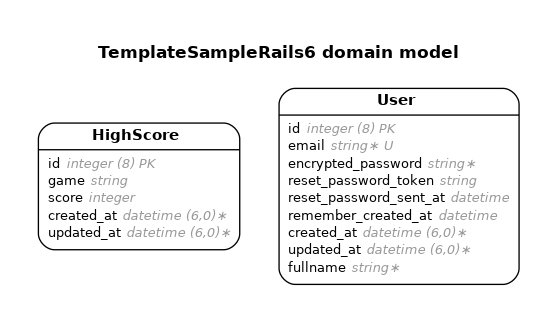
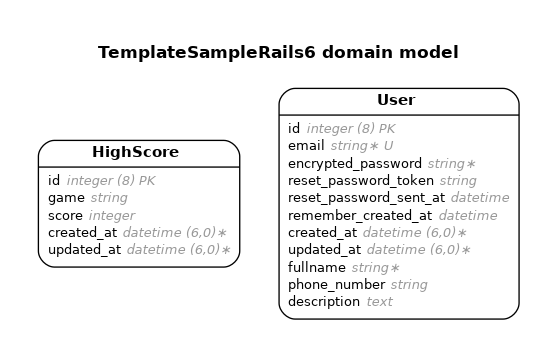
profile page create

Changed region(s): [[0.4883, 0.2167, 0.9461, 0.8978], [0.061, 0.3715, 0.4578, 0.774], [0.1526, 0.1238, 0.8241, 0.1858]]

diff --git a/app/assets/stylesheets/application.scss b/app/assets/stylesheets/application.scss
@@ -1,2 +1,138 @@
 @import "bootstrap-sprockets";
 @import "bootstrap";
+
+body {
+  color: #565a5c;
+  background-color: #F8F8F8;
+  font-family: "Varela Round", "Helvetica Neue", "Helvetica", "Arial", sans-serif;
+}
+
+a {
+  color: #00A699;
+}
+
+.container {
+  width: 80%;
+}
+
+.text-babu, .icon-babu {
+  color: #00A699;
+}
+
+.text-red, .icon-red {
+  color: #FF5A5F;
+}
+
+// NAVBARS
+.navbar-default {
+  background-color: #FFFFFF;
+}
+
+.navbar-default .navbar-brand {
+  color: #FF5A5F;
+  font-size: 2em;
+  font-weight: 400;
+}
+
+// BUTTONS
+.btn-block {
+  display: block;
+  white-space: normal;
+  width: 100%;
+}
+
+.btn {
+  color: #fff;
+  border-radius: 5px;
+  font-weight: bold;
+  padding: 9px 27px;
+}
+
+.btn-small {
+  padding: 5px 15px;
+  margin-top: 15px;
+}
+
+.btn:hover, .btn:focus {
+  color: #fff;
+}
+
+.btn.btn-default {
+  width: 100%;
+  border-color: #c4c4c4;
+  background: white;
+  color: #484848;
+  border-radius: 2px;
+  padding: 10px 0;
+  margin-top: 10px;
+}
+
+.btn.btn-normal {
+  border: 1px solid #ff5a5f;
+  background-color: #ff5a5f;
+}
+
+.btn.btn-normal:active {
+  outline: none;
+  border-color: #e00007;
+  background-color: #e00007;
+}
+
+.btn.btn-form {
+  border: 1px solid #00A699;
+  background-color: #00A699;
+}
+
+.btn.btn-form:active {
+  outline: none;
+  border-color: #066165;
+  background-color: #066165;
+}
+
+
+
+// PANELS
+.panel-default .panel-heading {
+  color: #ffffff;
+  background-color: #00A699;
+  font-size: 18px;
+  font-weight: 400;
+}
+
+.row-space-1 {
+  margin-top: 6px;
+  margin-bottom: 6px;
+}
+
+.row-space-2 {
+  margin-top: 12px;
+  margin-bottom: 12px;
+}
+
+.row-space-3 {
+  margin-top: 24px;
+  margin-bottom: 24px;
+}
+
+.description {
+  color: #575757;
+  font-size: 15px;
+  font-weight: 500;
+  line-height: 25px;
+}
+// AVATAR
+.avatar-small {
+  width: 28px;
+}
+
+.avatar-medium {
+  width: 48px;
+}
+
+.avatar-large {
+  width: 68px;
+}
+
+.avatar-full {
+  width: 100%;
+}

diff --git a/db/schema.rb b/db/schema.rb
@@ -10,7 +10,7 @@
 #
 # It's strongly recommended that you check this file into your version control system.
 
-ActiveRecord::Schema.define(version: 2020_07_30_061818) do
+ActiveRecord::Schema.define(version: 2020_08_01_120836) do
 
   # These are extensions that must be enabled in order to support this database
   enable_extension "plpgsql"
@@ -31,6 +31,8 @@ ActiveRecord::Schema.define(version: 2020_07_30_061818) do
     t.datetime "created_at", precision: 6, null: false
     t.datetime "updated_at", precision: 6, null: false
     t.string "fullname"
+    t.string "phone_number"
+    t.text "description"
     t.index ["email"], name: "index_users_on_email", unique: true
     t.index ["reset_password_token"], name: "index_users_on_reset_password_token", unique: true
   end

diff --git a/config/routes.rb b/config/routes.rb
@@ -1,9 +1,12 @@
 # frozen_string_literal: true
 
 Rails.application.routes.draw do
-  get 'pages/home'
-  devise_for :users
-  root 'high_scores#index'
+  root 'pages#home'
+  devise_for :users,
+             path: '',
+             path_names: { sign_in: 'login', sign_out: 'logout', edit: 'profile', sign_up: 'registration' }
+  get 'high_scores/index'
+  resources :users, only: [:show]
 
   resources :high_scores
   # For details on the DSL available within this file, see https://guides.rubyonrails.org/routing.html

diff --git a/db/migrate/20200801120836_add_phone_number_to_users.rb b/db/migrate/20200801120836_add_phone_number_to_users.rb
@@ -1,0 +1,6 @@
+class AddPhoneNumberToUsers < ActiveRecord::Migration[6.0]
+  def change
+    add_column :users, :phone_number, :string
+    add_column :users, :description, :text
+  end
+end

diff --git a/app/controllers/users_controller.rb b/app/controllers/users_controller.rb
@@ -1,0 +1,5 @@
+class UsersController < ApplicationController
+  def show
+    @user = User.find(params[:id])
+  end
+end
